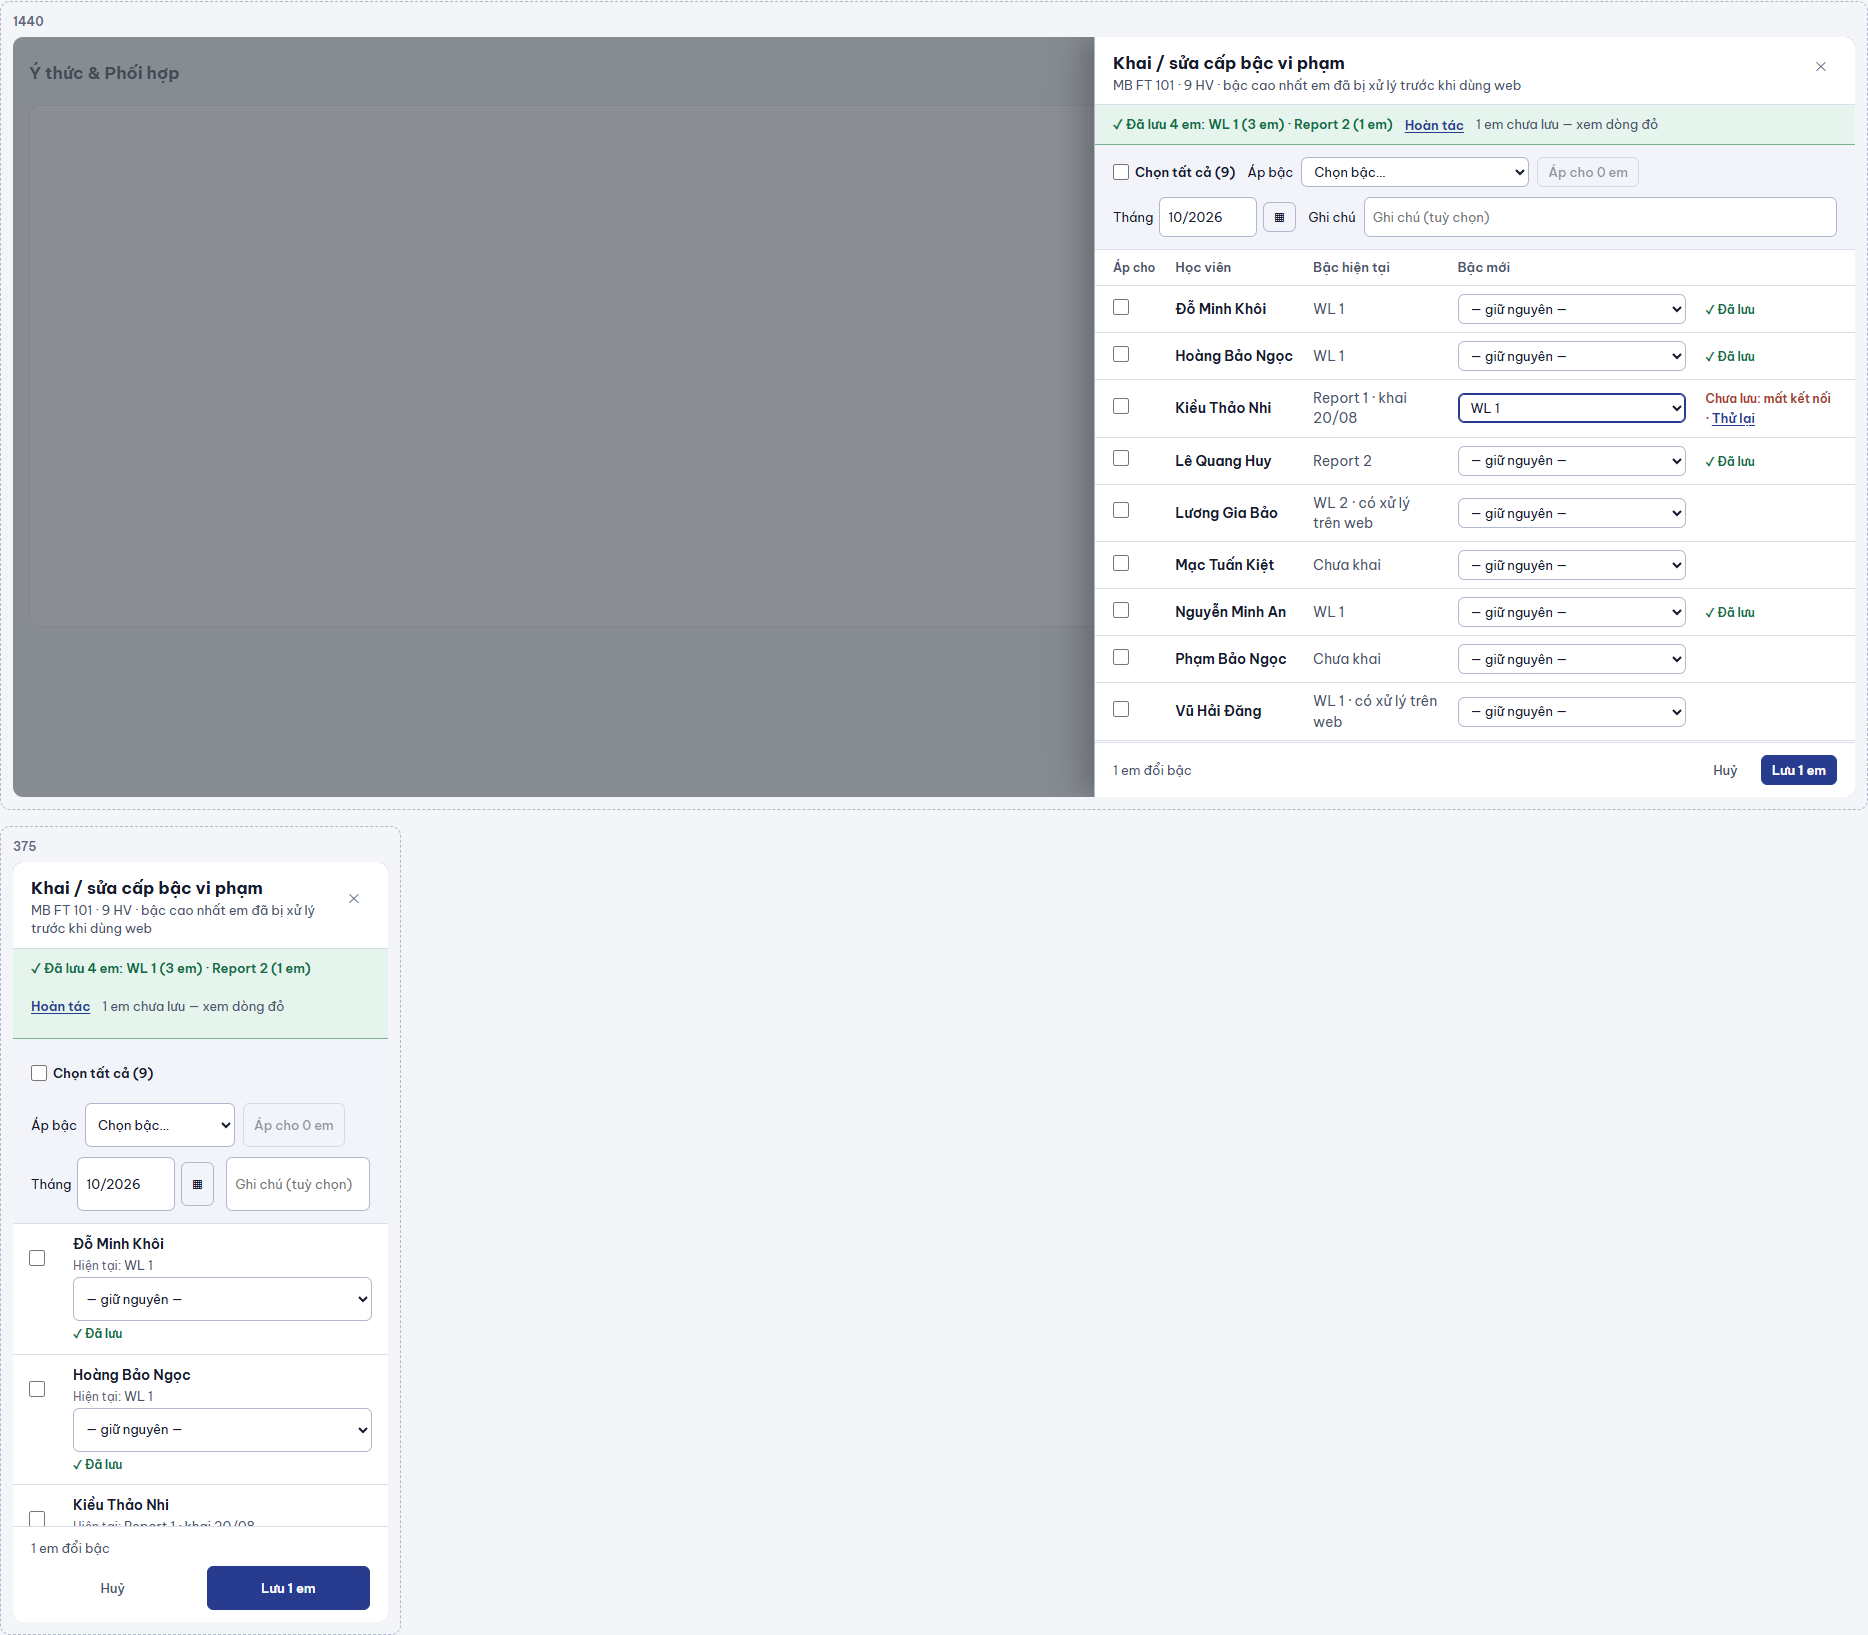
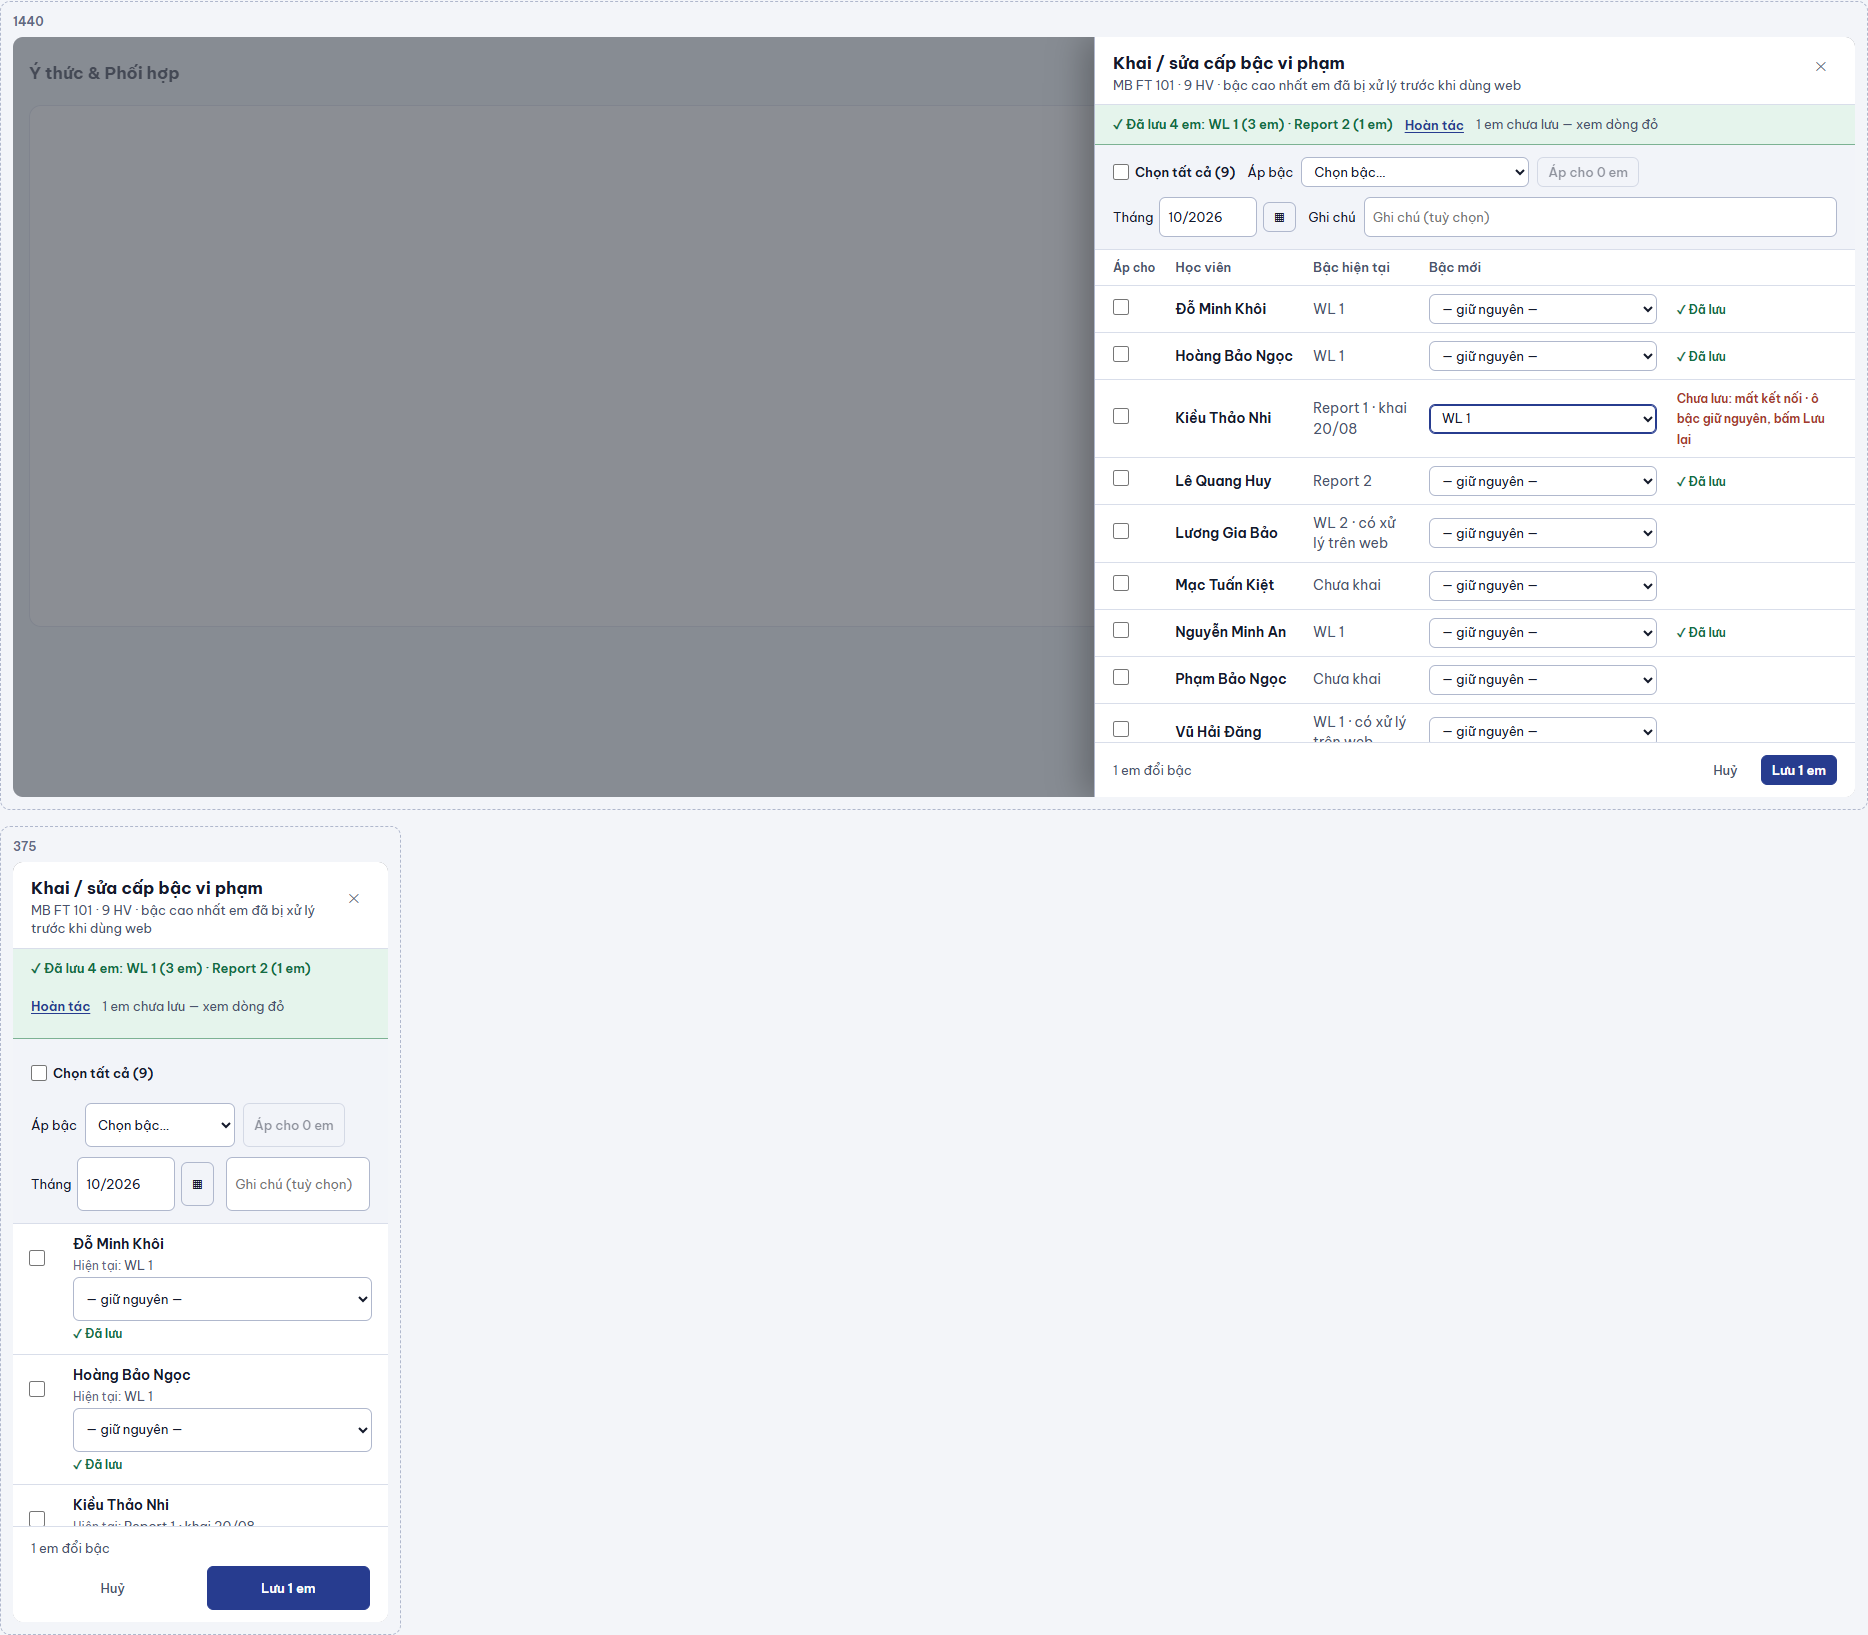
MOCKUP KHAI-BAC-LO: critique vòng 3 (34/40) — lỗi mạng dùng nút Lưu (bỏ Thử lại trùng), nút Lưu không số khi chưa đổi

Changed region(s): [[0.5899, 0.156, 0.9625, 0.4679]]

diff --git a/thiet-ke/v7/khai-bac-lo.html b/thiet-ke/v7/khai-bac-lo.html
@@ -127,7 +127,7 @@ button, select, input { font: inherit; color: inherit; }
     <dt>Thao tác</dt><dd>① "Chọn tất cả" (một chạm; ô gạch khi mới tick một phần) hoặc tick từng em — <b>ô tick chỉ để Áp</b> · ② chọn bậc → "Áp cho n em" (đổi ô Bậc mới của các em đó, chưa lưu) · ③ sửa riêng ô Bậc mới dòng nào cũng được · ④ <b>Lưu n em</b> — lưu theo ô Bậc mới ("— giữ nguyên —" không gửi). Nhãn dòng bằng chữ: Khai mới · Nâng từ … · <b>↓ Hạ từ …</b> (không chặn, không hỏi lại).</dd>
     <dt>Tối giản</dt><dd>Ghi chú KHÔNG bắt buộc (một ô chung cho cả lô; bỏ trống → "Xác nhận theo lớp MB FT 101" như hiện nay) · tháng mặc định tháng này, sửa được · bỏ hàng 7 chip mỗi em → một ô chọn bậc mỗi dòng.</dd>
     <dt>Quyền</dt><dd>Như khai từng em (máy chủ quyết): GVCN khai / sửa khi chuỗi chưa có lần xử lý trên web; QL sửa cả sau đó. Em không đủ quyền: dòng khoá + lý do. Lưu: một lần gọi theo lô, em lỗi báo riêng dòng đó (giữ ô đã chọn + Thử lại), em khác vẫn lưu; nhật ký từng em.</dd>
-    <dt>Sau lưu</dt><dd>Dải "✓ Đã lưu n em · Hoàn tác" (trả bậc cũ cho đúng các em vừa lưu) ở trên công cụ · panel DÙNG TIẾP được (ô bậc về "giữ nguyên", Lưu lại khi đổi tiếp) · em lỗi: GVCN gặp "em vừa có xử lý trên web" → dòng khoá "chỉ QL sửa" (không mời Thử lại); lỗi mạng / máy chủ → giữ ô đã chọn + Thử lại. Đóng / ✕ khi còn đổi chưa lưu → hỏi "Bỏ thay đổi của n em?" (khung panel `daSua` sẵn có).</dd>
+    <dt>Sau lưu</dt><dd>Dải "✓ Đã lưu n em · Hoàn tác" (trả bậc cũ cho đúng các em vừa lưu) ở trên công cụ · panel DÙNG TIẾP được (ô bậc về "giữ nguyên", Lưu lại khi đổi tiếp) · em lỗi: GVCN gặp "em vừa có xử lý trên web" → dòng khoá "chỉ QL sửa" (không mời Thử lại); lỗi mạng / máy chủ → giữ ô đã chọn, bấm Lưu lại (một nút, không thêm Thử lại riêng). Đóng / ✕ khi còn đổi chưa lưu → hỏi "Bỏ thay đổi của n em?" (khung panel `daSua` sẵn có).</dd>
     <dt>Giữ</dt><dd>Khai / sửa từng em ở hồ sơ HV (`KhaiBacPanel`, ghi chú vẫn tuỳ chọn như lô) · Chọn nhiều → Xác nhận cấp bậc (cùng panel này, chỉ các em đã chọn).</dd>
   </dl>
   <section class="hai-khung" aria-label="Khung giao diện">
@@ -176,7 +176,7 @@ button, select, input { font: inherit; color: inherit; }
     var khoa = khoaGoc || (loi && !ql);
     var ghi = khoaGoc ? '<span class="ghi-chu-hang">Đã có xử lý trên web · chỉ QL sửa</span>'
       : loi && !ql ? '<span class="ghi-chu-hang loi">Chưa lưu: em vừa có lần xử lý trên web · chỉ QL sửa</span>'
-      : loi ? '<span class="ghi-chu-hang loi">Chưa lưu: mất kết nối · <button class="link" type="button">Thử lại</button></span>'
+      : loi ? '<span class="ghi-chu-hang loi">Chưa lưu: mất kết nối · ô bậc giữ nguyên, bấm Lưu lại</span>'
       : ok ? '<span class="ghi-chu-hang ok">✓ Đã lưu</span>'
       : e[3] !== null ? '<span class="ghi-chu-hang doi' + (e[1] !== null && e[3] < e[1] ? ' ha' : '') + '">' + nhanDoi(e) + '</span>' : '';
     var hien = ok ? BAC[e[3]] : e[2];
@@ -206,7 +206,7 @@ button, select, input { font: inherit; color: inherit; }
       EM.map(hang).join('') + '</tbody></table></div>';
     var soDoi = daLuu ? (ql ? 1 : 0) : EM.filter(function (e) { return e[3] !== null && !(e[5] && !ql); }).length;
     var chan = '<div class="chan"><span class="trai">' + (soDoi ? soDoi + ' em đổi bậc' : 'Chưa đổi em nào') + (soKhoa ? ' · ' + soKhoa + ' em khoá (chỉ QL sửa)' : '') + '</span>' +
-      '<button class="btn ma" type="button">' + (soDoi ? 'Huỷ' : 'Đóng') + '</button><button class="btn chinh" type="button"' + (soDoi ? '' : ' disabled') + '>Lưu ' + soDoi + ' em</button></div>';
+      '<button class="btn ma" type="button">' + (soDoi ? 'Huỷ' : 'Đóng') + '</button><button class="btn chinh" type="button"' + (soDoi ? '' : ' disabled') + '>' + (soDoi ? 'Lưu ' + soDoi + ' em' : 'Lưu') + '</button></div>';
     return nen + '<aside class="panel" role="dialog" aria-label="Khai / sửa cấp bậc vi phạm">' + dau + '<div class="tren">' + ok + cc + '</div>' + bang + chan + '</aside>';
   }
   document.getElementById('w1440').innerHTML = web();
